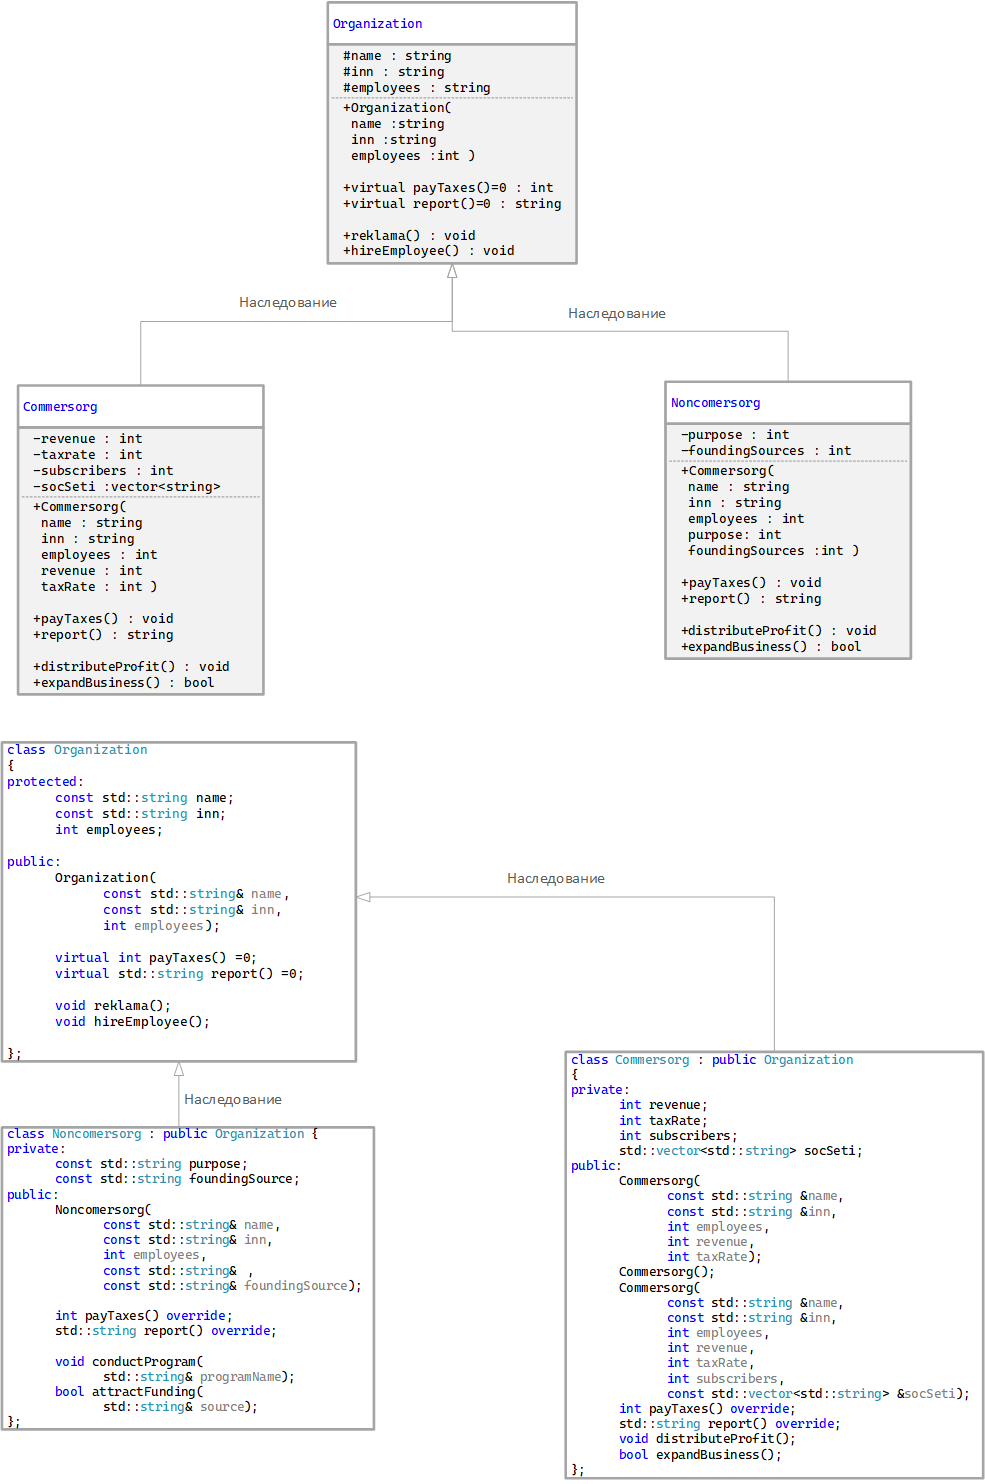
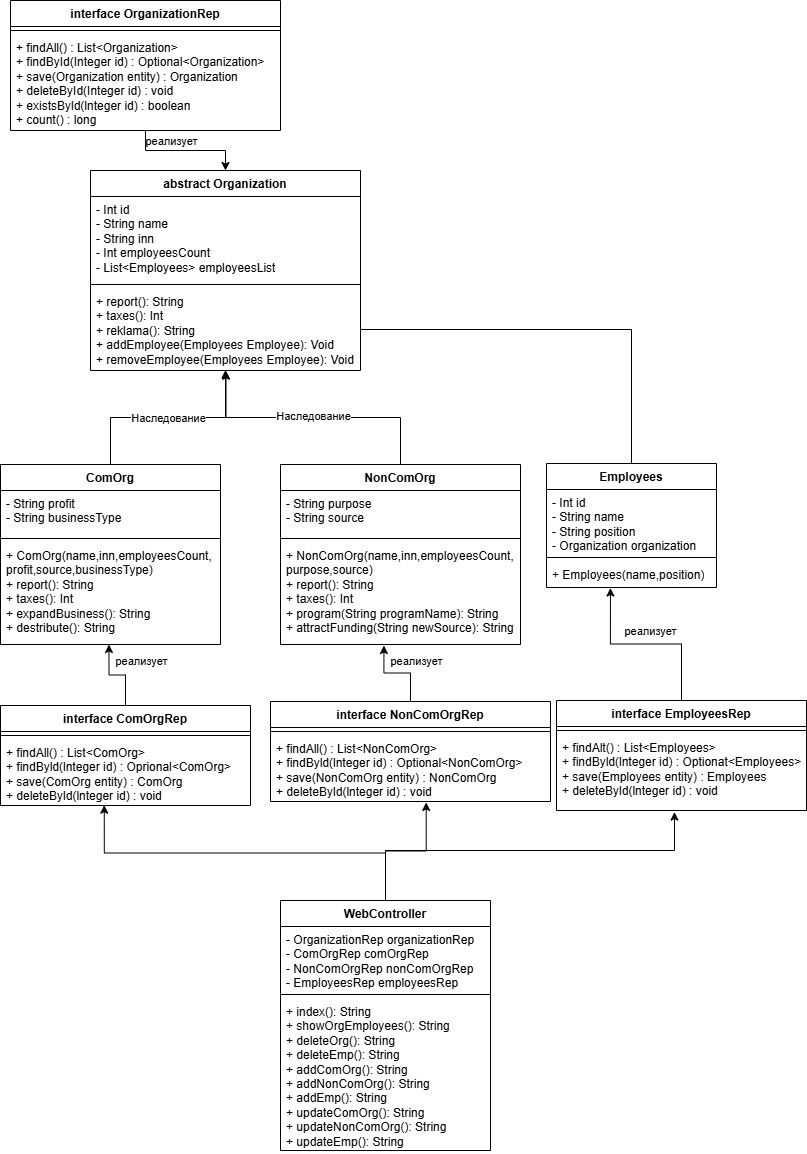
Отчёты ООП

diff --git a/2курс/2семестр/Отчёты/ООП/3/ООП3лаба.tex b/2курс/2семестр/Отчёты/ООП/3/ООП3лаба.tex
@@ -138,6 +138,13 @@
   \label{fig:class_diagram_lab3}
 \end{figure}
 
+\begin{figure}[H]
+  \centering
+  \includegraphics[width=0.8\textwidth]{ERD.png}
+  \caption{Диаграмма отношений сущностей}
+  \label{fig:class_diagram_lab3}
+\end{figure}
+
 \subsection*{Описание классов предметной области (сущностей)}
 \addcontentsline{toc}{subsection}{Описание классов предметной области}
 
@@ -274,7 +281,7 @@ extends Organization.
 \subsection*{Репозитории}
 \addcontentsline{toc}{subsection}{Репозитории}
 
-Для взаимодействия с базой данных используется Spring Data JPA. Созданы интерфейсы-репозитории, которые наследуются от `JpaRepository`. Это позволяет Spring автоматически предоставлять реализацию стандартных CRUD-операций без написания SQL-кода вручную. Все репозитории находятся в пакете `ru.university.lab3.repository`.
+Для взаимодействия с базой данных используется Spring Data JPA. Созданы интерфейсы-репозитории, которые наследуются от `JpaRepository`. Это позволяет Spring автоматически предоставлять реализацию стандартных CRUD-операций (Create, Read, Update, Delete) без написания SQL-кода вручную. Все репозитории находятся в пакете `ru.university.lab3.repository`.
 
 \subsubsection*{Интерфейс OrganizationRep}
 \begin{lstlisting}[language=Java, caption={Содержимое файла OrganizationRep.java}]
@@ -334,7 +341,15 @@ public interface EmployeesRep extends JpaRepository<Employees, Integer> {
 \subsection*{Веб контроллер}
 \addcontentsline{toc}{subsection}{Веб контроллер}
 
-Класс ru.university.lab3.controller WebController имеет аннотацию @Controller. В нём с помощью @Autowired внедряются все репозитории.
+Класс `ru.university.lab3.controller.WebController` обрабатывает HTTP-запросы от пользователя. Он использует аннотации Spring Framework для определения своей роли и для привязки методов к конкретным URL-адресам.
+
+\textbf{Ключевые аннотации Spring в контроллере:}
+\begin{itemize}
+    \item \textbf{@Controller}: Помечает класс как контроллер в архитектуре Spring MVC, который отвечает за обработку входящих веб-запросов и возврат представлений (HTML-страниц).
+    \item \textbf{@Autowired}: Используется для автоматического внедрения зависимостей. В данном проекте эта аннотация внедряет экземпляры репозиториев (`OrganizationRep`, `EmployeesRep` и др.) в контроллер, что позволяет ему взаимодействовать с базой данных.
+    \item \textbf{@GetMapping} и \textbf{@PostMapping}: Привязывают HTTP-методы GET и POST к методам контроллера. Например, `@GetMapping("/")` означает, что метод будет вызван при GET-запросе на главную страницу сайта. `@PostMapping("/addComOrg")` означает, что метод обработает данные, отправленные из формы добавления коммерческой организации.
+    \item \textbf{@RequestParam}: Извлекает параметры из HTTP-запроса (например, данные из полей формы) и передает их в качестве аргументов метода контроллера.
+\end{itemize}
 
 \textbf{Методы-обработчики запросов:}
 \begin{itemize}
@@ -356,15 +371,32 @@ public interface EmployeesRep extends JpaRepository<Employees, Integer> {
 Связь между Java-объектами и таблицами базы данных настраивается с помощью аннотаций:
 
 \begin{itemize}
-    \item \textbf{@Entity (JPA)}: Указывает, что класс является сущностью и его объекты должны сохраняться в базе данных. Каждый экземпляр этого класса соответствует строке в таблице.
-    \item \textbf{@Table(name = "...") (JPA)}: Явно задаёт имя таблицы в БД, с которой связан данный класс.
-    \item \textbf{@Id (JPA)}: Помечает поле как первичный ключ таблицы.
-    \item \textbf{@GeneratedValue (JPA)}: Определяет стратегию генерации значения для первичного ключа. В данном проекте используется стратегия по умолчанию, которая для PostgreSQL означает использование последовательностей (sequences).
-    \item \textbf{@Inheritance(strategy = InheritanceType.JOINED) (JPA)}: Настраивает стратегию наследования. Стратегия `JOINED` означает, что для каждого класса в иерархии (базового и дочерних) создаётся своя таблица. Таблицы дочерних классов связаны с таблицей базового класса по внешнему ключу, которым является первичный ключ.
-    \item \textbf{@OneToMany и @ManyToOne (JPA)}: Определяют реляционную связь "один ко многим" между сущностями. В классе `Organization` аннотация `@OneToMany` указывает на список сотрудников. В классе `Employees` аннотация `@ManyToOne` указывает на организацию, к которой принадлежит сотрудник.
-    \item \textbf{@JoinColumn(name = "...") (JPA)}: Указывает имя столбца в таблице, который является внешним ключом для связи.
-    \item \textbf{@Repository (Spring)}: Аннотация, которая помечает интерфейс репозитория. Spring Data JPA сканирует такие интерфейсы и автоматически создает их реализации во время выполнения.
-    \item \textbf{@Autowired (Spring)}: Используется в контроллере для автоматического внедрения зависимостей, в данном случае — экземпляров репозиториев, что позволяет вызывать методы для работы с БД.
+    \item \textbf{@Entity }: Указывает, что класс является сущностью и его объекты должны сохраняться в базе данных. Каждый экземпляр этого класса соответствует строке в таблице.
+    \item \textbf{@Table(name = "...") }: Явно задаёт имя таблицы в БД, с которой связан данный класс.
+    \item \textbf{@Id }: Помечает поле как первичный ключ таблицы.
+    \item \textbf{@GeneratedValue }: Определяет стратегию генерации значения для первичного ключа. В данном проекте используется стратегия по умолчанию, которая для PostgreSQL означает использование последовательностей (sequences).
+    \item \textbf{@Inheritance(strategy = InheritanceType.JOINED) }: Настраивает стратегию наследования. Стратегия `JOINED` означает, что для каждого класса в иерархии (базового и дочерних) создаётся своя таблица. Таблицы дочерних классов связаны с таблицей базового класса по внешнему ключу, которым является первичный ключ.
+    \item \textbf{@OneToMany и @ManyToOne }: Определяют связь "один ко многим". Реализована между сущностями Organization и Employees: одна организация может иметь много сотрудников, но каждый сотрудник принадлежит только одной организации.
+
+    В классе Organization связь описывается аннотацией @OneToMany. Атрибут `mappedBy = "organization"` указывает, что управление этой связью находится на стороне Employees в поле organization.
+
+    \begin{lstlisting}
+        @OneToMany(mappedBy = "organization", cascade = CascadeType.ALL, orphanRemoval = true)
+        private List<Employees> employeesList = new ArrayList<>();
+    \end{lstlisting}
+
+    В классе \texttt{Employees} используется аннотация \texttt{@ManyToOne}.
+    Аннотация \texttt{@JoinColumn(name = "org\_id")} указывает, что в таблице
+    \texttt{employees} будет создан столбец \texttt{org\_id}, который будет
+    внешним ключом, ссылающимся на первичный ключ таблицы \texttt{organizations}.
+    \begin{lstlisting}
+        @ManyToOne
+        @JoinColumn(name = "org_id")
+        private Organization organization;
+    \end{lstlisting}
+
+    \item \textbf{@Repository }: Аннотация, которая помечает интерфейс репозитория. Spring Data JPA сканирует такие интерфейсы и автоматически создает их реализации во время выполнения.
+    \item \textbf{@Autowired }: Используется в контроллере для автоматического внедрения зависимостей, в данном случае — экземпляров репозиториев, что позволяет вызывать методы для работы с БД.
 \end{itemize}
 
 Таким образом, вместо написания SQL-запросов, разработчик оперирует объектами и вызывает методы репозитория, такие как `save()`, `findById()`, `findAll()`, а Hibernate генерирует и выполняет соответствующие SQL-запросы к базе данных.

diff --git a/2курс/2семестр/Отчёты/ООП/4/ООП4лаба.tex b/2курс/2семестр/Отчёты/ООП/4/ООП4лаба.tex
@@ -200,7 +200,7 @@
   \centering
   \includegraphics[width=0.8\textwidth]{добавление коморг.png}
   \caption{форма добавления коммерческой организации}
-  \label{fig:add_page}
+  \label{fig:addComOrg_page}
 \end{figure}
 
 
@@ -208,7 +208,7 @@
   \centering
   \includegraphics[width=0.8\textwidth]{добавление некоморг.png}
   \caption{форма добавления некоммерческой организации}
-  \label{fig:add_page}
+  \label{fig:addNonComOrg_page}
 \end{figure}
 
 
@@ -223,16 +223,29 @@
   \centering
   \includegraphics[width=0.8\textwidth]{редактирование некомморг.png}
   \caption{форма редактирования некоммерческой организации}
-  \label{fig:add_page}
+  \label{fig:addRedNonComOrg_page}
 \end{figure}
 
 \begin{figure}[H]
   \centering
   \includegraphics[width=0.8\textwidth]{редактирование сотрудника.png}
   \caption{форма редактирования сотрудника}
-  \label{fig:add_page}
+  \label{fig:addRedEmployee_page}
 \end{figure}
 
+\begin{figure}[H]
+  \centering
+  \includegraphics[width=0.8\textwidth]{ERD.png}
+  \caption{Диаграмма отношений сущностей}
+  \label{fig:ERD}
+\end{figure}
+
+\begin{figure}[H]
+  \centering
+  \includegraphics[width=0.8\textwidth]{Классы.png}
+  \caption{Диаграмма классов}
+  \label{fig:UML}
+\end{figure}
 
 \newpage
 
